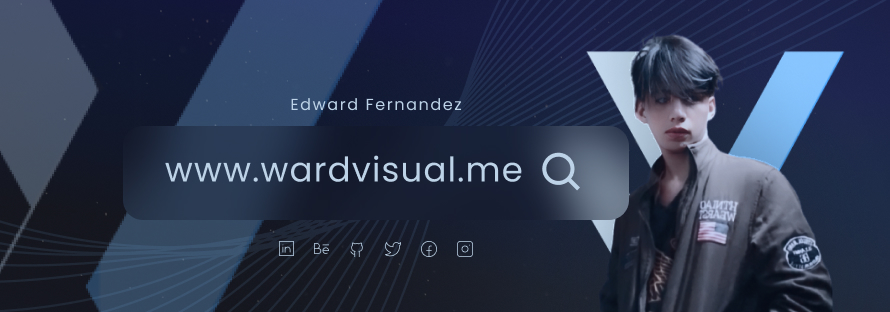
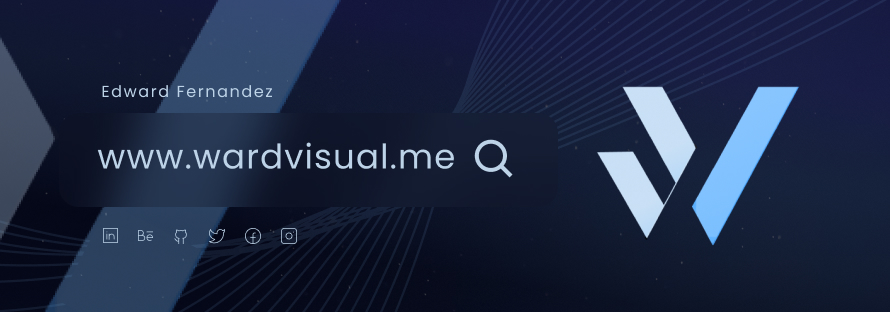
v4

Changed region(s): [[0.0, 0.0, 0.9708, 1.0], [0.5157, 0.7788, 0.5461, 0.8077]]

diff --git a/README.md b/README.md
@@ -2,7 +2,7 @@
   @Author: Edward Fernandez (https://github.com/wardvisual)
  -->
 
-[<img src="./assets/bannerv2.jpg">](https://www.wardvisual.me/)
+[<img src="./assets/banner.jpg">](https://www.wardvisual.me/)
 
 
 <h3> Hello, glad to meet you here! 🤝</h3>
